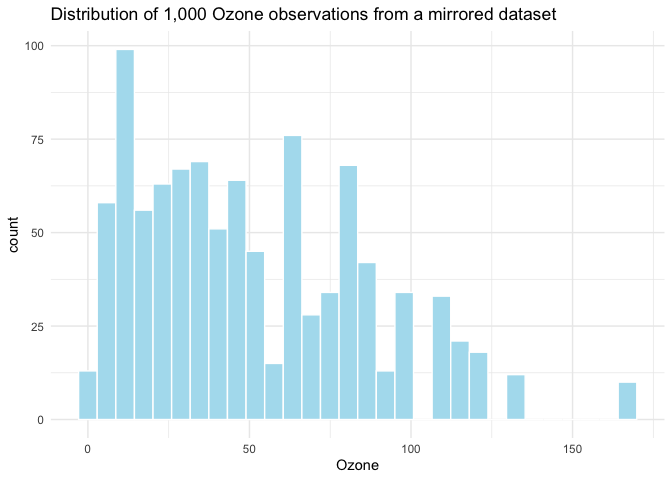
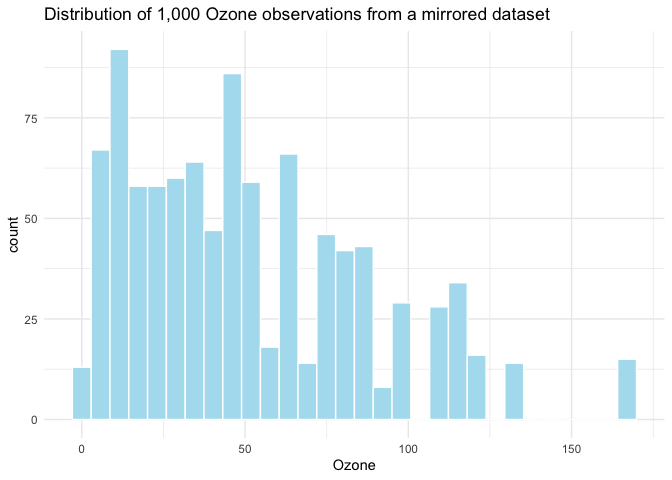
Thanks to the R Core Team

diff --git a/README.md b/README.md
@@ -82,7 +82,7 @@ ggplot(air_mirror$simulated_df) +
   theme_minimal() +
   labs(title = "Distribution of 1,000 Ozone observations from a mirrored dataset")
 #> `stat_bin()` using `bins = 30`. Pick better value with `binwidth`.
-#> Warning: Removed 11 rows containing non-finite values (`stat_bin()`).
+#> Warning: Removed 23 rows containing non-finite values (`stat_bin()`).
 ```
 
 <img src="man/figures/README-example3-1.png" width="100%" />
@@ -120,3 +120,8 @@ Marie Laure Delignette-Muller, Christophe Dutang (2015). *fitdistrplus:
 An R Package for Fitting Distributions. Journal of Statistical
 Software*. <https://www.jstatsoft.org/article/view/v064i04> DOI
 10.18637/jss.v064.i04.
+
+This package also pull from the core R
+[`stats`](https://stat.ethz.ch/R-manual/R-devel/library/stats/html/00Index.html)
+package. Special thanks to the R Core Team, without whom I would almost
+definitely be unemployed.
